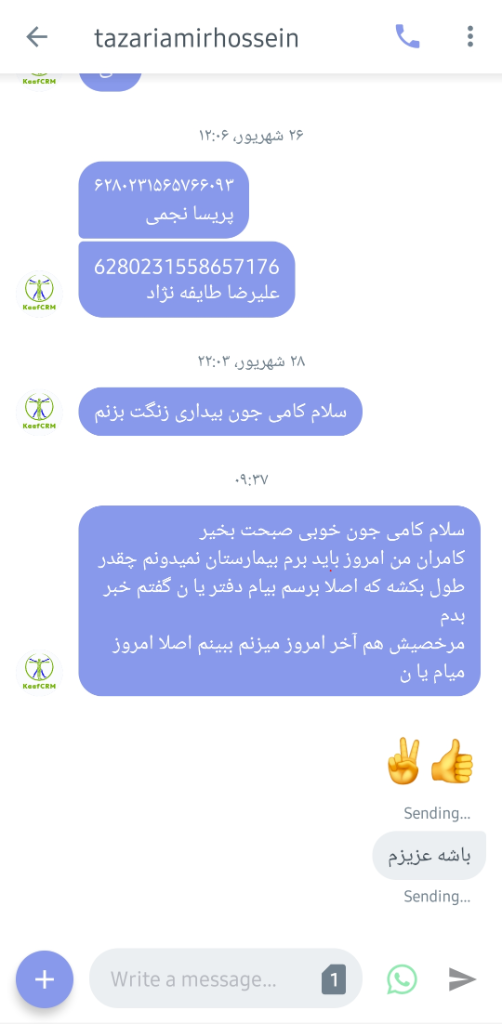
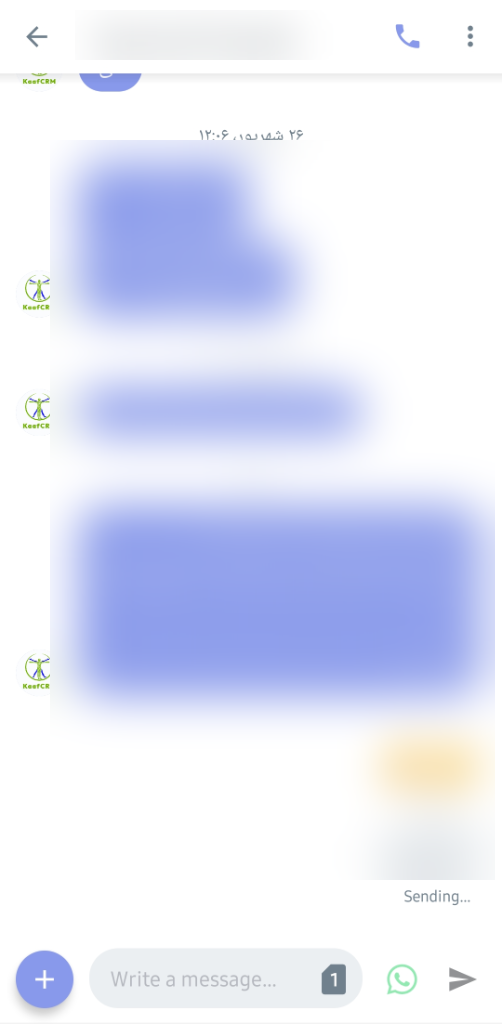
fix: upgrade compileSdk 29->33 across all modules to fix createForSubscriptionId build error, bump version to 2.0.2

Changed region(s): [[0.0896, 0.125, 0.9861, 0.8438], [0.1793, 0.0312, 0.5976, 0.0625]]

diff --git a/scratch_blur.py b/scratch_blur.py
@@ -1,0 +1,31 @@
+from PIL import Image, ImageFilter, ImageDraw
+
+def blur_region(image, box, radius=18):
+    # box is (x1, y1, x2, y2)
+    crop = image.crop(box)
+    blurred = crop.filter(ImageFilter.GaussianBlur(radius=radius))
+    image.paste(blurred, box)
+
+# 1. Blur tab_personal.jpg
+img_personal = Image.open('assets/tab_personal.jpg')
+# Blur all contact names & snippet texts: x from 85 to 445, y from 130 to 930
+blur_region(img_personal, (85, 130, 445, 930), radius=18)
+# Also blur the bottom floating screenshot thumbnail at (30, 740, 135, 910)
+blur_region(img_personal, (30, 740, 135, 910), radius=25)
+img_personal.save('assets/tab_personal.jpg', quality=95)
+
+# 2. Blur tab_otp.jpg
+img_otp = Image.open('assets/tab_otp.jpg')
+# Blur all contact names & snippet texts: x from 85 to 445, y from 130 to 930
+blur_region(img_otp, (85, 130, 445, 930), radius=18)
+img_otp.save('assets/tab_otp.jpg', quality=95)
+
+# 3. Blur tab_discounts.png (chat conversation)
+img_chat = Image.open('assets/tab_discounts.png')
+# Header contact name: x from 75 to 380, y from 10 to 60
+blur_region(img_chat, (75, 10, 380, 60), radius=18)
+# All chat bubbles content: y from 140 to 880, x from 50 to 495
+blur_region(img_chat, (50, 140, 495, 880), radius=22)
+img_chat.save('assets/tab_discounts.png')
+
+print("All 3 screenshots blurred successfully!")
